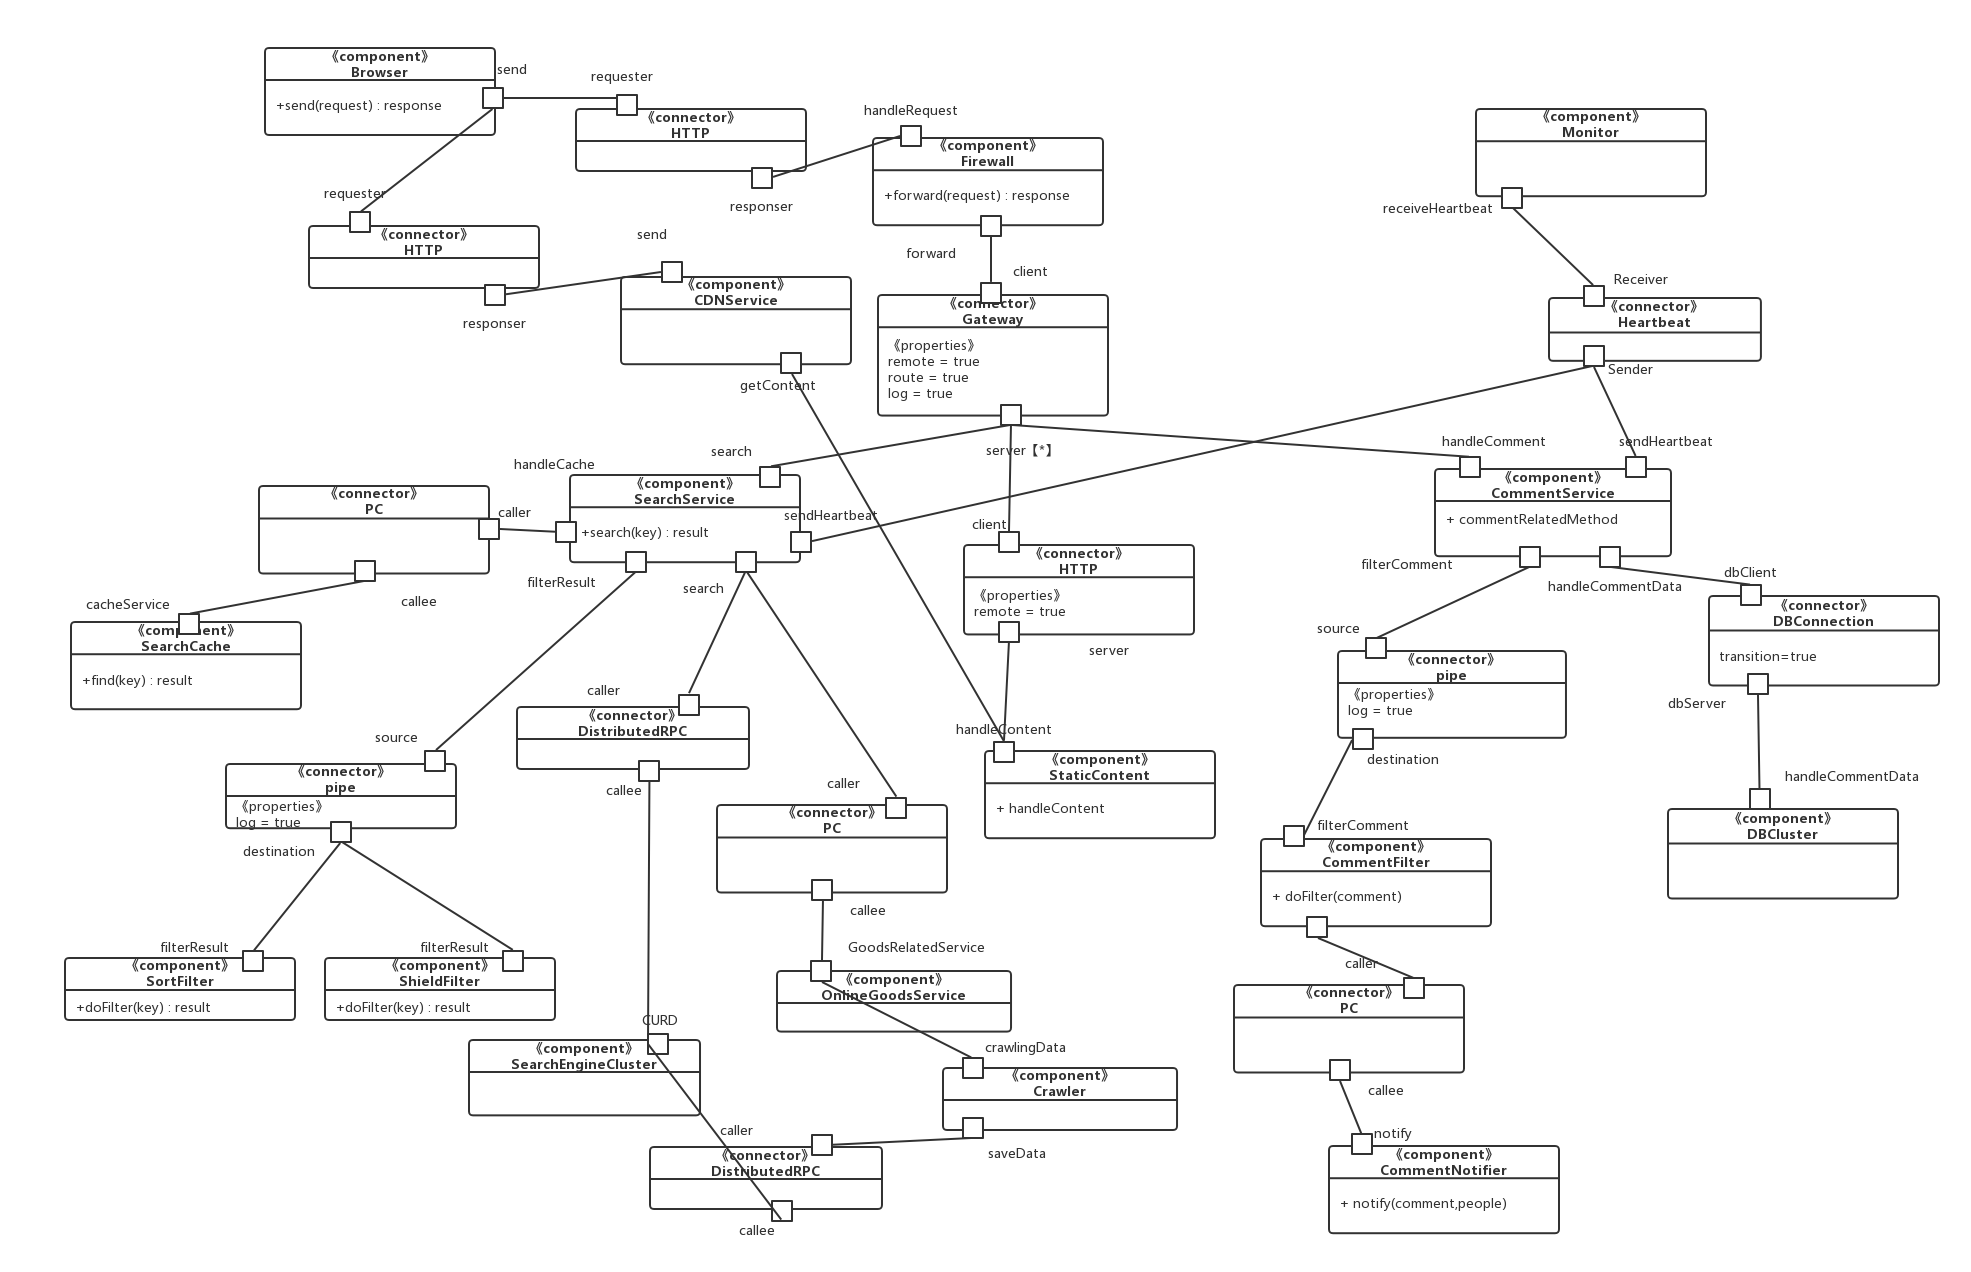
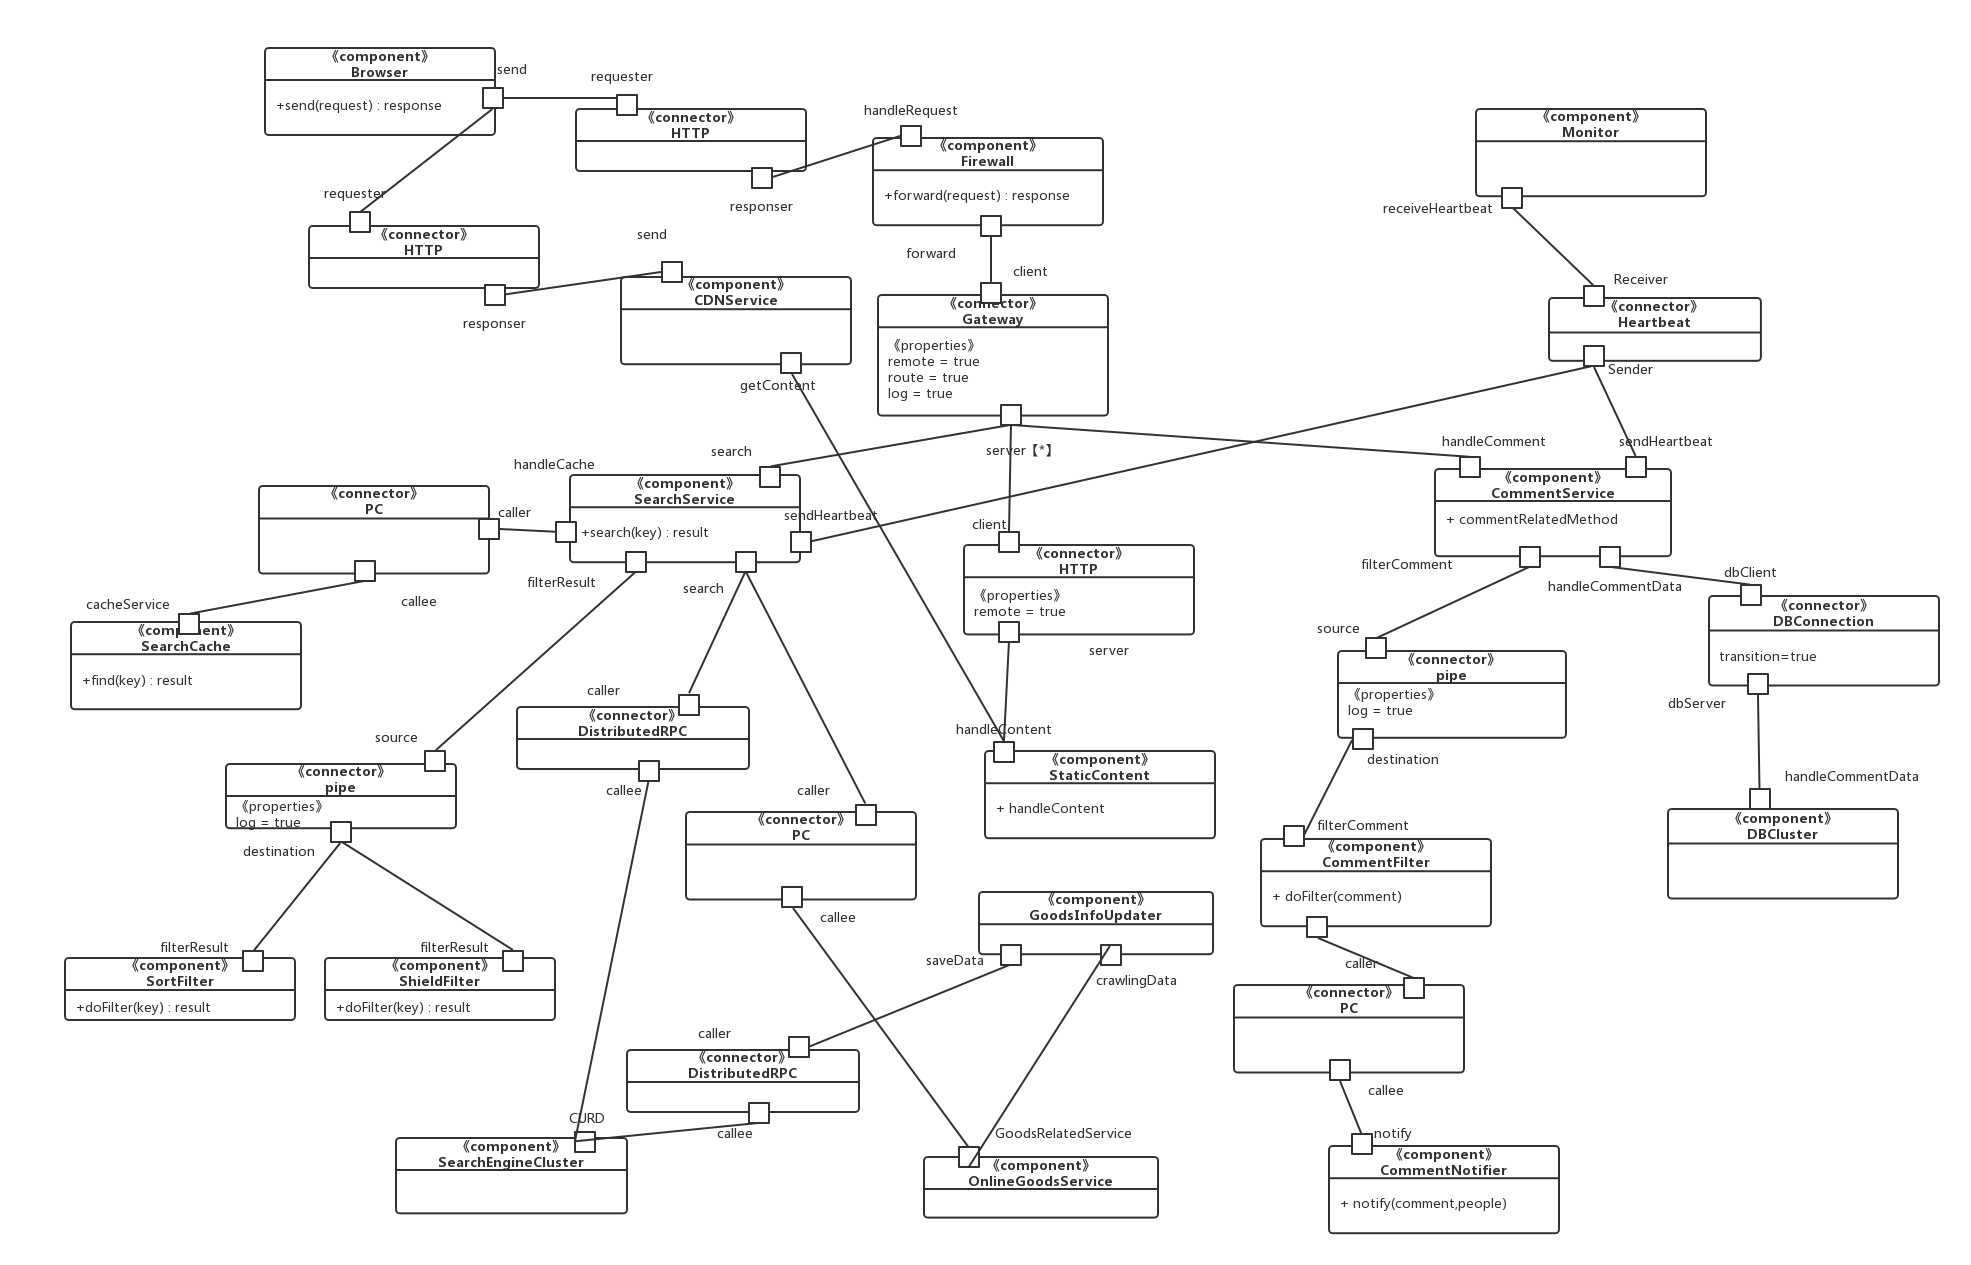
Updates assets/最终逻辑视图.png
Auto commit by GitBook Editor

diff --git a/最终开发视图.md b/最终开发视图.md
@@ -2,14 +2,6 @@
 
 ---
 
-## 模块组织
-
-![](/assets/模块组织.svg)
-
-## 子系统组织
-
-![](/assets/子系统组织.svg)
-
 ## 逻辑视图与开发视图对应表
 
 > Pages代表动态页面
@@ -17,10 +9,13 @@
 | Componnet/Connector | Module |
 | :--- | :--- |
 | Firewall | 第三方软件 |
-| SearchService | SearchServer,Ranker,SearchResultPages |
-| SearchCache | CacheService,KeyCompare,CacheDB |
-| VirtualGoodsInfoService | GoodsInfoServer,SearchEngineAdapter |
-| SearchResultFilter | SearchFilterService, SearchResultFilter |
+| SearchService | SearchServer,SearchResultPages |
+| SearchCache | CacheService,CacheDB |
+| OnlineGoodsService | OnlineGoodsService,CrawlerLib |
+| SortFilter | SearchFilter |
+| ShieldFilter | ShieldFilter |
+| SearchEngineCluster | 开源软件 |
+| Crawler |  |
 | Comment | CommentServer,CommentDataService,CommentPages |
 | CommentData | CommentDB |
 | CommentNotifier | CommentNotifierServer,Notifier |
@@ -32,6 +27,7 @@
 | Gateway | 开源软件 |
 | RPC | 第三方库 |
 | DBProxy | 开源软件 |
+|  |  |
 
 
 

diff --git a/SUMMARY.md b/SUMMARY.md
@@ -18,4 +18,5 @@
     * [其他决策](其他决策.md)
 * [最终高层结构](最终高层结构.md)
     * [逻辑视图](最终逻辑视图.md)
+    * [开发视图](最终开发视图.md)
 
